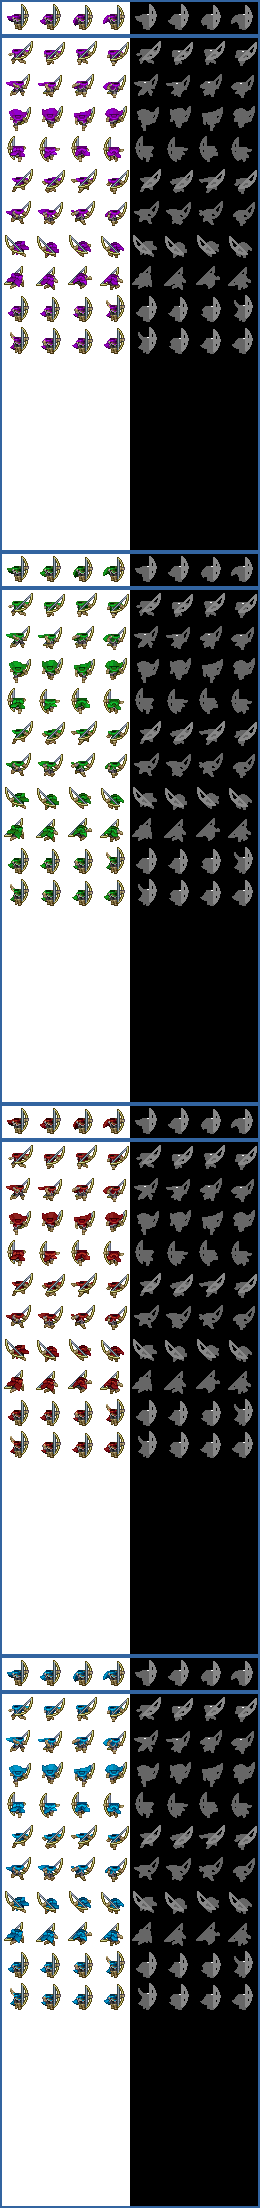
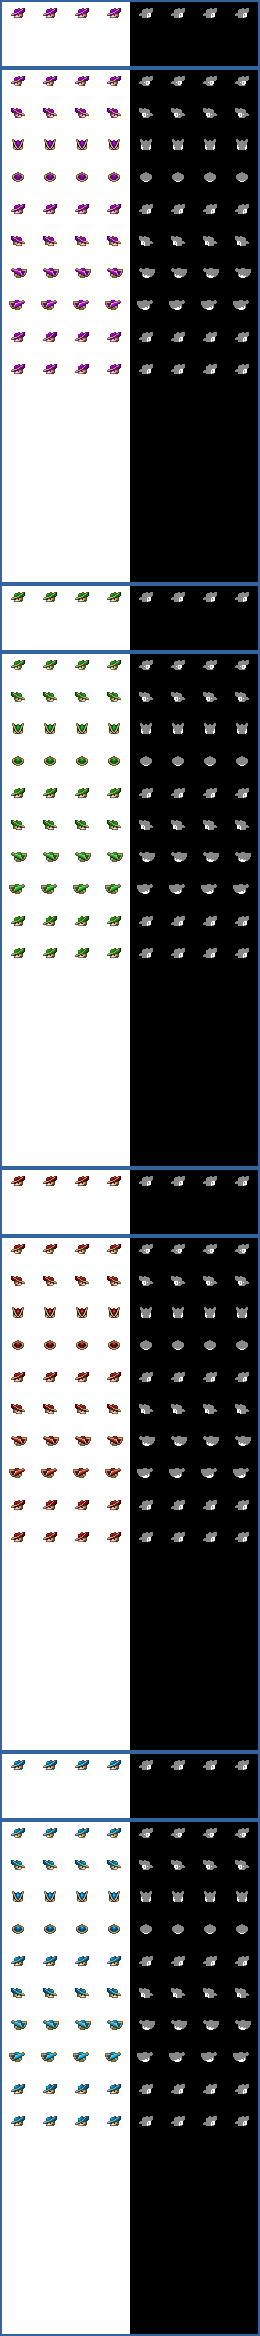
Fixed lodestar and added all unit heads

diff --git a/splitter.py b/splitter.py
@@ -208,6 +208,10 @@ HEAD_PARAMS = {
         'offset': [(-4,2),(-4,2),(-4,2),(-4,2),],
         'size': 'large',
         },
+    'lodestar': {
+        'offset': [(2,2),(2,2),(2,1),(2,1),],
+        'size': 'large',
+        },
     'wyvern-lord': {
         'offset': [(-2,0),(-2,-2),(-2,-1),(-2,-1),],
         'size': 'small',

diff --git a/test.py b/test.py
@@ -6,8 +6,8 @@ import splitter, glob, os
 # (https://www.spriters-resource.com/3ds/fireemblemfates/)
 
 FILE_STRING = 'inputs/{}.png'
-UNIT_NAME = 'effie'
-CLASS_NAME = 'knight'
+UNIT_NAME = 'marth'
+CLASS_NAME = 'lodestar'
 
 splitter.main(
     FILE_STRING.format(UNIT_NAME),
